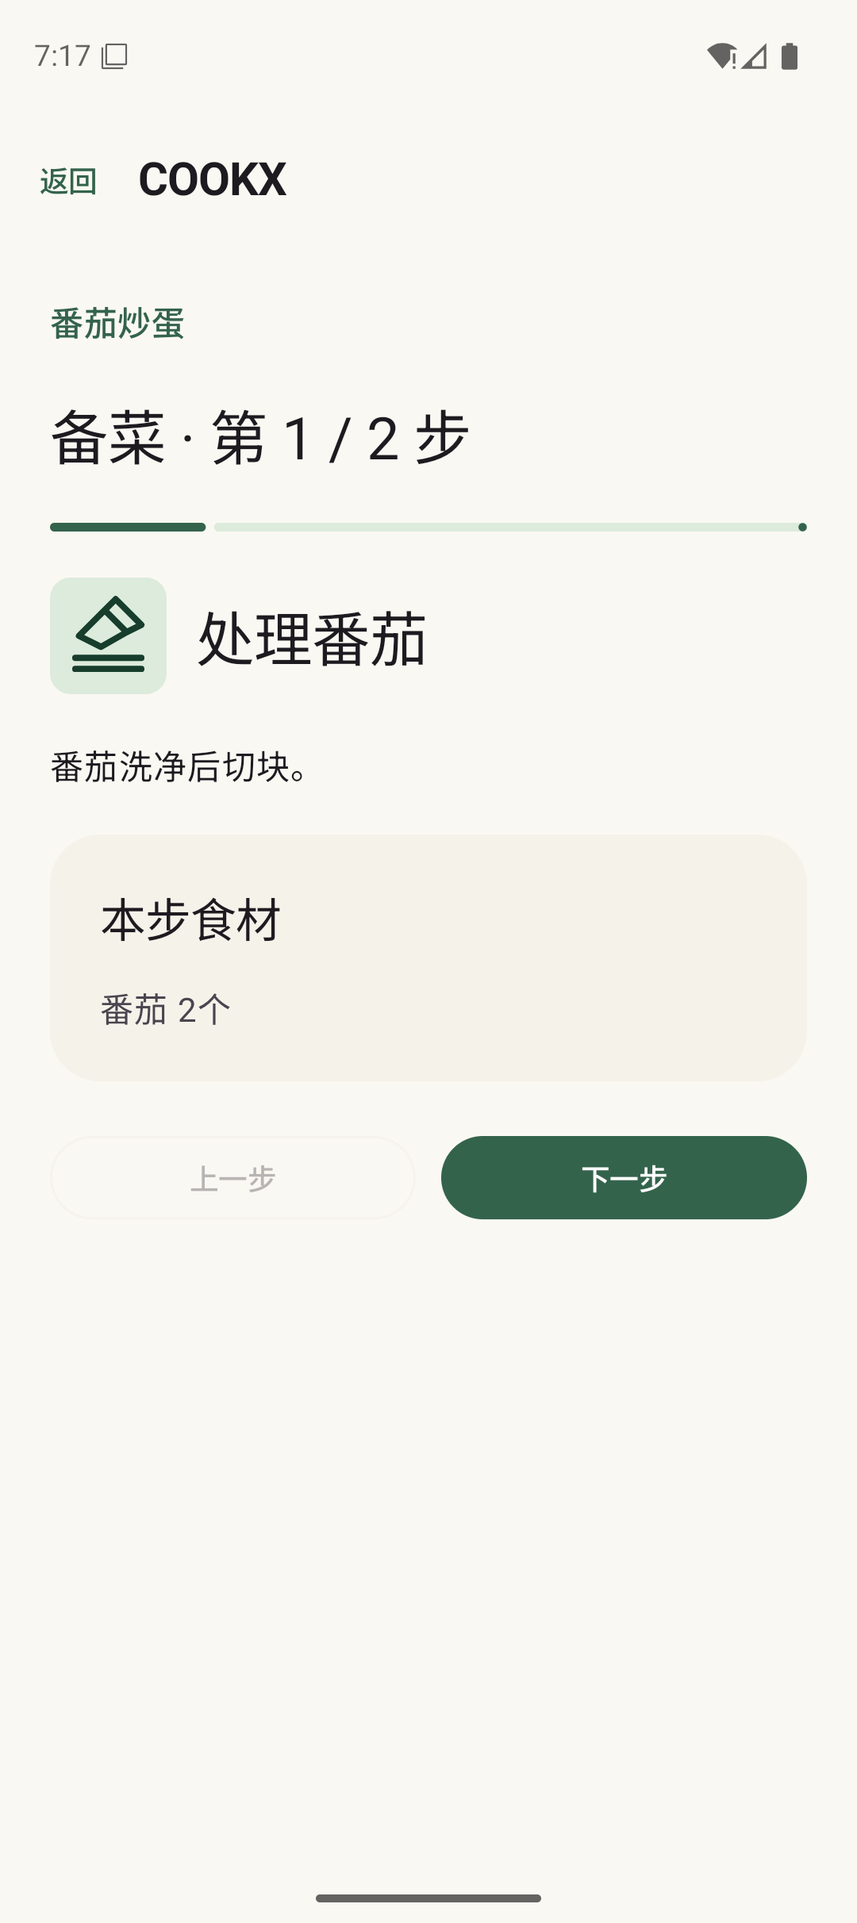
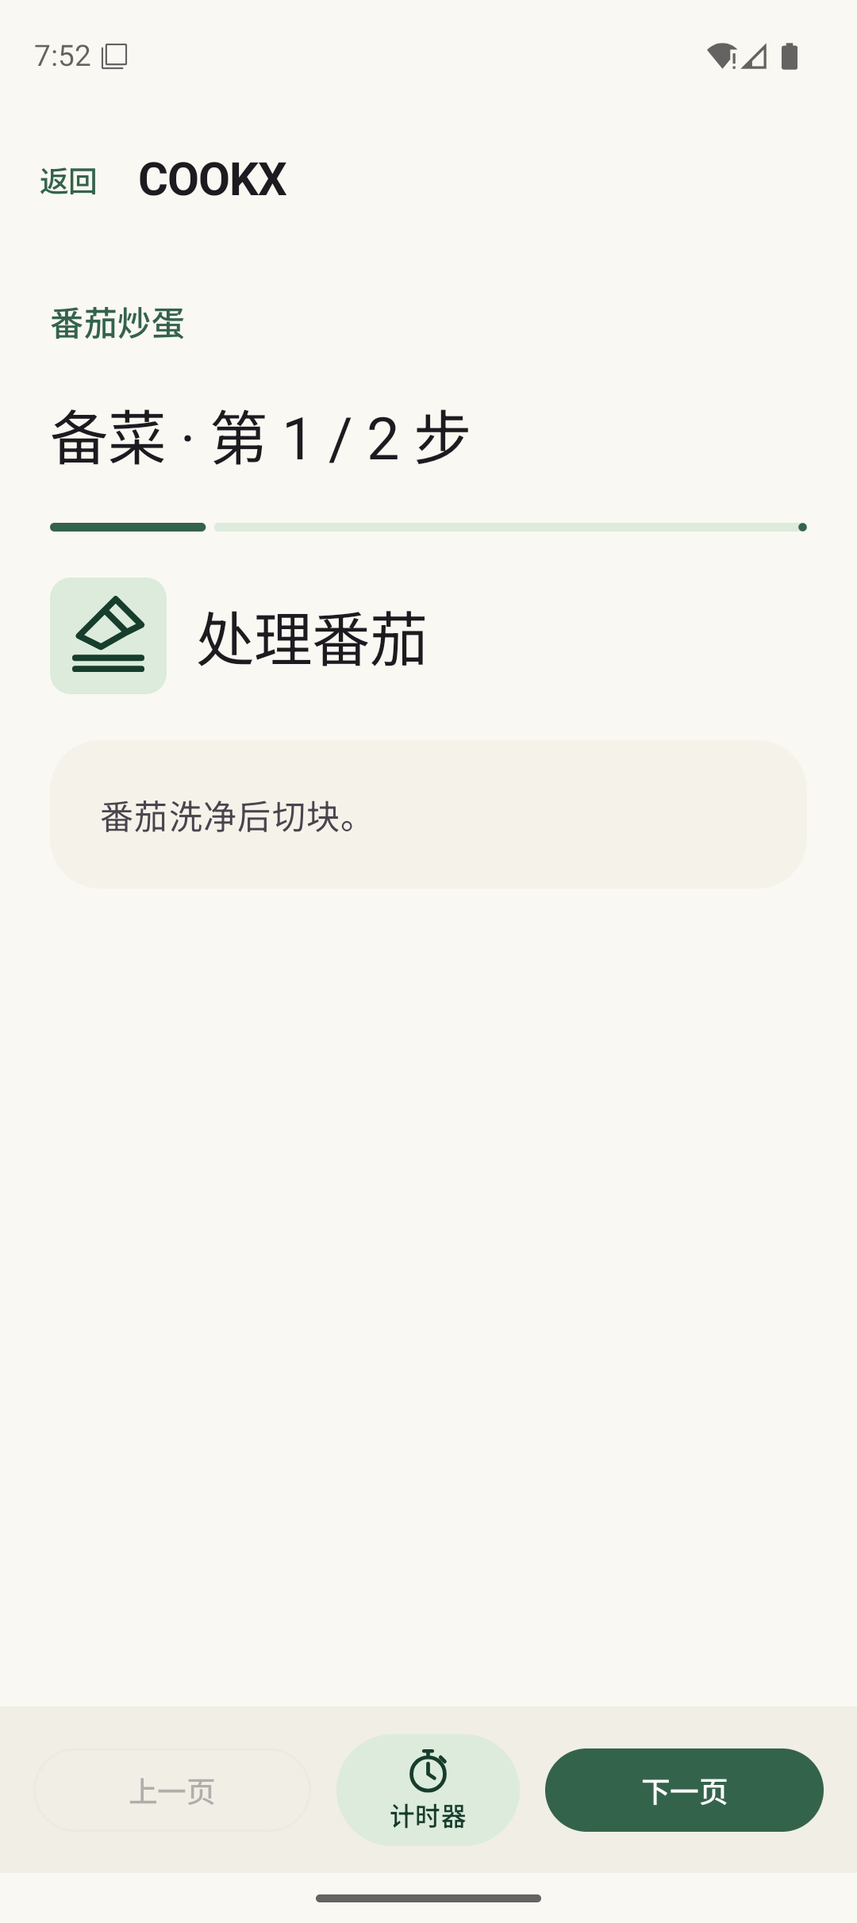
feat: add fixed cooking navigation and manual timer dialog

diff --git a/app/src/main/kotlin/com/cookx/app/ui/CookxApp.kt b/app/src/main/kotlin/com/cookx/app/ui/CookxApp.kt
@@ -12,6 +12,9 @@ import androidx.compose.runtime.*
 import androidx.compose.runtime.saveable.rememberSaveable
 import androidx.compose.ui.Alignment
 import androidx.compose.ui.Modifier
+import androidx.compose.ui.platform.testTag
+import androidx.compose.ui.res.painterResource
+import com.cookx.app.R
 import androidx.compose.ui.text.font.FontWeight
 import androidx.compose.ui.unit.dp
 import androidx.lifecycle.compose.collectAsStateWithLifecycle
@@ -260,6 +263,9 @@ import kotlinx.serialization.Serializable
     var deadline by rememberSaveable { mutableLongStateOf(0L) }
     var remaining by remember { mutableLongStateOf(0L) }
     var note by rememberSaveable { mutableStateOf("") }
+    var timerOpen by rememberSaveable { mutableStateOf(false) }
+    var timerDefault by rememberSaveable { mutableIntStateOf(60) }
+    var timerCondition by rememberSaveable { mutableStateOf<String?>(null) }
     LaunchedEffect(deadline) {
         while (deadline > 0L) {
             remaining = ((deadline - System.currentTimeMillis() + 999) / 1000).coerceAtLeast(0)
@@ -267,45 +273,55 @@ import kotlinx.serialization.Serializable
             delay(250)
         }
     }
-    Column(Modifier.fillMaxSize().verticalScroll(scroll).padding(24.dp), verticalArrangement = Arrangement.spacedBy(22.dp)) {
-        Text(recipe.name, style = MaterialTheme.typography.titleMedium, color = MaterialTheme.colorScheme.primary)
-        if (step < playback.size) {
-            val current = playback[step]
-            Text("${current.phase.label} · 第 ${current.phaseIndex} / ${current.phaseSize} 步", style = MaterialTheme.typography.headlineMedium)
-            LinearProgressIndicator(progress = { (step + 1f) / playback.size }, modifier = Modifier.fillMaxWidth())
-            Row(verticalAlignment = Alignment.CenterVertically) {
-                OperationBadge(current.step.operationType, 56.dp)
-                Text(current.step.title, Modifier.padding(start = 14.dp).weight(1f), style = MaterialTheme.typography.headlineMedium)
-            }
-            Surface(shape = RoundedCornerShape(24.dp), color = MaterialTheme.colorScheme.surfaceContainerLow) {
-                Text(current.step.description, modifier = Modifier.fillMaxWidth().padding(24.dp),
-                    style = MaterialTheme.typography.bodyLarge, color = MaterialTheme.colorScheme.onSurfaceVariant)
-            }
-            val parameters = current.step.parameters
-            val details = listOfNotNull(parameters.heat, parameters.temperature, parameters.cutSize)
-            if (details.isNotEmpty()) Text(details.joinToString(" · "), style = MaterialTheme.typography.bodyMedium)
-            current.step.timer?.let { timer ->
-                OutlinedButton(onClick = { deadline = System.currentTimeMillis() + timer.durationSeconds * 1000L }) {
-                    Text("计时 ${timer.durationSeconds} 秒")
+    Scaffold(contentWindowInsets = WindowInsets(0, 0, 0, 0), bottomBar = {
+        BottomAppBar(windowInsets = WindowInsets(0, 0, 0, 0), containerColor = MaterialTheme.colorScheme.surfaceContainer,
+            contentPadding = PaddingValues(horizontal = 16.dp, vertical = 8.dp)) {
+            OutlinedButton(onClick = { step-- }, enabled = step > 0, modifier = Modifier.weight(1f)) { Text("上一页") }
+            FilledTonalButton(onClick = {
+                val configured = playback.getOrNull(step)?.step?.timer
+                timerDefault = configured?.durationSeconds ?: 60
+                timerCondition = configured?.startCondition
+                timerOpen = true
+            }, modifier = Modifier.padding(horizontal = 12.dp).widthIn(min = 88.dp).testTag("openCookingTimer"),
+                contentPadding = PaddingValues(horizontal = 12.dp, vertical = 6.dp)) {
+                Column(horizontalAlignment = Alignment.CenterHorizontally) {
+                    Icon(painterResource(R.drawable.ic_timer), contentDescription = "计时器", modifier = Modifier.size(24.dp))
+                    Text(if (deadline > 0L) timerText(remaining) else "计时器", style = MaterialTheme.typography.labelMedium)
                 }
-                Text(timer.startCondition, style = MaterialTheme.typography.bodyMedium)
             }
-            if (deadline != 0L) {
+            Button(onClick = { step++ }, enabled = step < playback.size, modifier = Modifier.weight(1f)) { Text("下一页") }
+        }
+    }) { padding ->
+        Column(Modifier.fillMaxSize().padding(padding).consumeWindowInsets(padding).verticalScroll(scroll).padding(24.dp), verticalArrangement = Arrangement.spacedBy(22.dp)) {
+            Text(recipe.name, style = MaterialTheme.typography.titleMedium, color = MaterialTheme.colorScheme.primary)
+            if (step < playback.size) {
+                val current = playback[step]
+                Text("${current.phase.label} · 第 ${current.phaseIndex} / ${current.phaseSize} 步", style = MaterialTheme.typography.headlineMedium)
+                LinearProgressIndicator(progress = { (step + 1f) / playback.size }, modifier = Modifier.fillMaxWidth())
                 Row(verticalAlignment = Alignment.CenterVertically) {
-                    Text(if (remaining == 0L) "时间到" else "%02d:%02d".format(remaining / 60, remaining % 60), style = MaterialTheme.typography.titleLarge)
-                    TextButton(onClick = { deadline = 0L; remaining = 0L }) { Text("取消计时") }
+                    OperationBadge(current.step.operationType, 56.dp)
+                    Text(current.step.title, Modifier.padding(start = 14.dp).weight(1f), style = MaterialTheme.typography.headlineMedium)
                 }
+                Surface(shape = RoundedCornerShape(24.dp), color = MaterialTheme.colorScheme.surfaceContainerLow) {
+                    Text(current.step.description, modifier = Modifier.fillMaxWidth().padding(24.dp),
+                        style = MaterialTheme.typography.bodyLarge, color = MaterialTheme.colorScheme.onSurfaceVariant)
+                }
+                val parameters = current.step.parameters
+                val details = listOfNotNull(parameters.heat, parameters.temperature, parameters.cutSize)
+                if (details.isNotEmpty()) Text(details.joinToString(" · "), style = MaterialTheme.typography.bodyMedium)
+
+            } else {
+                Text("又完成了一道家的味道", style = MaterialTheme.typography.headlineLarge)
+                MealControls(cookingDate, Meal.valueOf(mealName), { cookingDate = it }, { mealName = it.name })
+                OutlinedTextField(note, { note = it }, label = { Text("本次制作心得（选填）") }, minLines = 4, modifier = Modifier.fillMaxWidth())
+                Button(onClick = { finish(note, MealSelection(cookingDate, Meal.valueOf(mealName))) }, enabled = !busy, modifier = Modifier.fillMaxWidth()) { Text("保存制作记录") }
             }
-            Row(Modifier.fillMaxWidth(), horizontalArrangement = Arrangement.spacedBy(12.dp)) {
-                OutlinedButton(onClick = { step-- }, enabled = step > 0, modifier = Modifier.weight(1f)) { Text("上一步") }
-                Button(onClick = { step++ }, modifier = Modifier.weight(1f)) { Text(if (step == playback.lastIndex) "完成步骤" else "下一步") }
-            }
-        } else {
-            Text("又完成了一道家的味道", style = MaterialTheme.typography.headlineLarge)
-            MealControls(cookingDate, Meal.valueOf(mealName), { cookingDate = it }, { mealName = it.name })
-            OutlinedTextField(note, { note = it }, label = { Text("本次制作心得（选填）") }, minLines = 4, modifier = Modifier.fillMaxWidth())
-            Button(onClick = { finish(note, MealSelection(cookingDate, Meal.valueOf(mealName))) }, enabled = !busy, modifier = Modifier.fillMaxWidth()) { Text("保存制作记录") }
-            TextButton(onClick = { step-- }) { Text("回看最后一步") }
         }
     }
+    if (timerOpen) CookingTimerDialog(timerDefault, timerCondition, deadline > 0L, remaining,
+        dismiss = { timerOpen = false }, stop = { deadline = 0L; remaining = 0L }, start = { seconds ->
+            remaining = seconds.toLong()
+            deadline = System.currentTimeMillis() + seconds * 1000L
+            timerOpen = false
+        })
 }

diff --git a/app/src/androidTest/kotlin/com/cookx/app/StructuredPlaybackTest.kt b/app/src/androidTest/kotlin/com/cookx/app/StructuredPlaybackTest.kt
@@ -31,13 +31,45 @@ class StructuredPlaybackTest {
         compose.onNodeWithText("本步食材").assertDoesNotExist()
         compose.onNodeWithText("土豆 1个").assertDoesNotExist()
         compose.onNodeWithText("清洗土豆。").assertIsDisplayed()
-        compose.onNodeWithText("计时 120 秒").performScrollTo().performClick()
-        compose.onNodeWithText("下一步").performScrollTo().performClick()
+        compose.onNodeWithTag("openCookingTimer").performClick()
+        compose.onNodeWithTag("timerDisplay").assertTextEquals("02:00")
+        compose.onNodeWithText("开始计时").performClick()
+        compose.onNodeWithText("下一页").assertIsDisplayed().performClick()
         compose.onNodeWithText("烹饪 · 第 1 / 1 步").assertExists()
         restore.emulateSavedInstanceStateRestore()
-        compose.onNodeWithText("取消计时").assertExists()
+        compose.onNodeWithTag("openCookingTimer").performClick()
+        compose.onNodeWithText("停止计时").assertExists()
         compose.onNodeWithTag("cookingDate").assertDoesNotExist()
-        compose.onNodeWithText("取消计时").performScrollTo().performClick()
-        compose.onNodeWithText("取消计时").assertDoesNotExist()
+        compose.onNodeWithText("停止计时").performClick()
+        compose.onNodeWithTag("timerDisplay").assertTextEquals("01:00")
+        compose.onNodeWithText("关闭").performClick()
+    }
+    @Test fun defaultTimerOpensIdleAndFooterStaysVisibleForLongInstructions() {
+        val original = exampleRecipes("f").first()
+        val recipe = original.copy(phases = listOf(RecipePhase(PhaseType.PREP, listOf(
+            original.phases.first().steps.first().copy(description = "清洗番茄后切块。\n".repeat(100))
+        )), RecipePhase(PhaseType.COOK)))
+        val restore = StateRestorationTester(compose)
+        restore.setContent { COOKXTheme { Box(Modifier.safeDrawingPadding()) {
+            CookingScreen(recipe, Cook(recipe.id), false) { _, _ -> }
+        } } }
+        compose.onNodeWithText("上一页").assertIsDisplayed().assertIsNotEnabled()
+        compose.onNodeWithText("下一页").assertIsDisplayed()
+        compose.onNodeWithTag("openCookingTimer").assertIsDisplayed().performClick()
+        compose.onNodeWithTag("timerDisplay").assertTextEquals("01:00")
+        compose.onNodeWithText("停止计时").assertDoesNotExist()
+        restore.emulateSavedInstanceStateRestore()
+        compose.onNodeWithTag("timerDisplay").assertTextEquals("01:00")
+        compose.onNodeWithText("开始计时").assertIsDisplayed()
+        compose.onNodeWithTag("timerMinutes").performTextReplacement("0")
+        compose.onNodeWithTag("timerSeconds").performTextReplacement("45")
+        compose.onNodeWithText("开始计时").assertIsDisplayed().performClick()
+        compose.onNodeWithTag("openCookingTimer").performClick()
+        compose.onNodeWithText("停止计时").assertIsDisplayed()
+        compose.onNodeWithText("关闭").performClick()
+        compose.onNodeWithText("下一页").assertIsDisplayed().performClick()
+        compose.onNodeWithText("下一页").assertIsNotEnabled()
+        compose.onNodeWithText("上一页").performClick()
+        compose.onNodeWithTag("openCookingTimer").assertIsDisplayed()
     }
 }

diff --git a/app/src/main/kotlin/com/cookx/app/ui/CookingTimerDialog.kt b/app/src/main/kotlin/com/cookx/app/ui/CookingTimerDialog.kt
@@ -1,0 +1,50 @@
+package com.cookx.app.ui
+
+import androidx.compose.foundation.layout.*
+import androidx.compose.foundation.rememberScrollState
+import androidx.compose.foundation.text.KeyboardOptions
+import androidx.compose.foundation.verticalScroll
+import androidx.compose.material3.*
+import androidx.compose.runtime.*
+import androidx.compose.runtime.saveable.rememberSaveable
+import androidx.compose.ui.Modifier
+import androidx.compose.ui.platform.testTag
+import androidx.compose.ui.text.input.KeyboardType
+import androidx.compose.ui.unit.dp
+import java.util.Locale
+
+internal fun timerText(seconds: Long) = String.format(Locale.ROOT, "%02d:%02d", seconds / 60, seconds % 60)
+
+@Composable internal fun CookingTimerDialog(defaultSeconds: Int, startCondition: String?, running: Boolean, remaining: Long,
+    dismiss: () -> Unit, stop: () -> Unit, start: (Int) -> Unit) {
+    var minutes by rememberSaveable { mutableStateOf((defaultSeconds / 60).toString()) }
+    var seconds by rememberSaveable { mutableStateOf((defaultSeconds % 60).toString()) }
+    var error by rememberSaveable { mutableStateOf<String?>(null) }
+    val duration = minutes.toLongOrNull()?.let { min -> seconds.toLongOrNull()?.let { sec ->
+        (min * 60 + sec).takeIf { min in 0..35_791_393 && sec in 0..59 && it in 1..Int.MAX_VALUE }
+    } }
+    AlertDialog(onDismissRequest = dismiss, containerColor = MaterialTheme.colorScheme.surfaceContainerLow, title = { Text("计时器") }, text = {
+        Column(Modifier.verticalScroll(rememberScrollState()), verticalArrangement = Arrangement.spacedBy(16.dp)) {
+            Text(timerText(if (running) remaining else duration ?: defaultSeconds.toLong()),
+                style = MaterialTheme.typography.displayMedium, modifier = Modifier.testTag("timerDisplay"))
+            if (!running) {
+                Row(horizontalArrangement = Arrangement.spacedBy(12.dp)) {
+                    OutlinedTextField(minutes, { minutes = it; error = null }, label = { Text("分") },
+                        keyboardOptions = KeyboardOptions(keyboardType = KeyboardType.Number), singleLine = true,
+                        modifier = Modifier.weight(1f).testTag("timerMinutes"))
+                    OutlinedTextField(seconds, { seconds = it; error = null }, label = { Text("秒") },
+                        keyboardOptions = KeyboardOptions(keyboardType = KeyboardType.Number), singleLine = true,
+                        modifier = Modifier.weight(1f).testTag("timerSeconds"))
+                }
+                startCondition?.let { Text(it, style = MaterialTheme.typography.bodyMedium) }
+            }
+            error?.let { Text(it, color = MaterialTheme.colorScheme.error) }
+        }
+    }, confirmButton = {
+        if (running) TextButton(onClick = stop) { Text("停止计时") }
+        else TextButton(onClick = {
+            if (duration == null) error = "请填写有效时长，秒数为 0–59"
+            else start(duration.toInt())
+        }) { Text("开始计时") }
+    }, dismissButton = { TextButton(onClick = dismiss) { Text("关闭") } })
+}

diff --git a/app/src/androidTest/kotlin/com/cookx/app/TagsAndMealsUiTest.kt b/app/src/androidTest/kotlin/com/cookx/app/TagsAndMealsUiTest.kt
@@ -60,12 +60,12 @@ class TagsAndMealsUiTest {
         }
         compose.onNodeWithTag("cookingDate").assertDoesNotExist()
         compose.onNodeWithTag("meal:DINNER").assertDoesNotExist()
-        compose.onNodeWithText("下一步").performScrollTo().performClick()
+        compose.onNodeWithText("下一页").assertIsDisplayed().performClick()
         restore.emulateSavedInstanceStateRestore()
         compose.onNodeWithText("备菜 · 第 2 / 2 步").assertExists()
         compose.onNodeWithTag("cookingDate").assertDoesNotExist()
-        repeat(3) { compose.onNodeWithText("下一步").performScrollTo().performClick() }
-        compose.onNodeWithText("完成步骤").performScrollTo().performClick()
+        repeat(3) { compose.onNodeWithText("下一页").assertIsDisplayed().performClick() }
+        compose.onNodeWithText("下一页").assertIsDisplayed().performClick()
         compose.onNodeWithText("制作日期：2026-11-16").assertExists()
         compose.onNodeWithTag("meal:DINNER").assertIsSelected()
         compose.onNodeWithTag("meal:BREAKFAST").performScrollTo().performClick()
@@ -75,10 +75,10 @@ class TagsAndMealsUiTest {
         restore.emulateSavedInstanceStateRestore()
         compose.onNodeWithText("制作日期：2026-11-17").assertExists()
         compose.onNodeWithTag("meal:BREAKFAST").assertIsSelected()
-        compose.onNodeWithText("回看最后一步").performScrollTo().performClick()
+        compose.onNodeWithText("上一页").assertIsDisplayed().performClick()
         compose.onNodeWithTag("cookingDate").assertDoesNotExist()
         compose.onNodeWithTag("meal:BREAKFAST").assertDoesNotExist()
-        compose.onNodeWithText("完成步骤").performScrollTo().performClick()
+        compose.onNodeWithText("下一页").assertIsDisplayed().performClick()
         compose.onNodeWithText("制作日期：2026-11-17").assertExists()
         compose.onNodeWithText("保存制作记录").performScrollTo().performClick()
         assertEquals(MealSelection("2026-11-17", Meal.BREAKFAST), saved)

diff --git a/app/src/androidTest/kotlin/com/cookx/app/KitchenJourneyTest.kt b/app/src/androidTest/kotlin/com/cookx/app/KitchenJourneyTest.kt
@@ -33,13 +33,13 @@ class KitchenJourneyTest {
             compose.onNodeWithText("本步食材").assertDoesNotExist()
             compose.onNodeWithText("番茄洗净后切块。").assertIsDisplayed()
             compose.onNodeWithTag("cookingDate").assertDoesNotExist()
-            compose.onNodeWithText("下一步").performScrollTo().performClick()
+            compose.onNodeWithText("下一页").assertIsDisplayed().performClick()
             scenario.recreate()
             compose.onNodeWithText("备菜 · 第 2 / 2 步").assertExists()
-            compose.onNodeWithText("下一步").performScrollTo().performClick()
+            compose.onNodeWithText("下一页").assertIsDisplayed().performClick()
             compose.onNodeWithText("烹饪 · 第 1 / 3 步").assertExists()
-            repeat(2) { compose.onNodeWithText("下一步").performScrollTo().performClick() }
-            compose.onNodeWithText("完成步骤").performScrollTo().performClick()
+            repeat(2) { compose.onNodeWithText("下一页").assertIsDisplayed().performClick() }
+            compose.onNodeWithText("下一页").assertIsDisplayed().performClick()
             compose.onNodeWithTag("cookingDate").assertExists()
             compose.onNodeWithText("本次制作心得（选填）").performTextInput("下次少放盐")
             compose.onNodeWithText("保存制作记录").performScrollTo().performClick()

diff --git a/docs/recipe-model.md b/docs/recipe-model.md
@@ -57,7 +57,7 @@ KitchenState（schemaVersion = 3）
 
 套用后，将按条件筛选的动作与具体用料分行生成做法，和参数、计时、绑定结果一起复制为 `RecipeStep`，保留 `templateRef`。模板参数保存在 `templateRef.values`，用于恢复编辑；食材列表绑定键为 `参数ID:索引`。播放只读步骤内容，不根据模板 ID 实时重建；以后模板改变不会自动改写旧菜谱。
 
-当前模板目录只读，读取六个已确认模板：肉丝腌制、切滚刀块、切均匀块、肉类焯水、西兰花焯水、葱姜蒜爆香。肉类焯水只采用冷水下锅；西兰花过凉可选；香料可一起下或排序。未填写时长不生成计时器；填写焯水时长时必须提供起点。模板中的多个动作仍为同一制作页。模板维护权限、家庭模板及升级策略仍留待产品讨论。
+当前模板目录只读，读取六个已确认模板：肉丝腌制、切滚刀块、切均匀块、肉类焯水、西兰花焯水、葱姜蒜爆香。肉类焯水只采用冷水下锅；西兰花过凉可选；香料可一起下或排序。未填写时长不生成步骤的计时配置；填写焯水时长时必须提供起点。模板中的多个动作仍为同一制作页。模板维护权限、家庭模板及升级策略仍留待产品讨论。
 
 修改标准步骤的核心做法时，可转为自定义步骤；不继续声称是未经修改的标准模板。阶段、排序、删除和食材关联在编辑器中显式维护。
 
@@ -73,7 +73,7 @@ KitchenState（schemaVersion = 3）
 
 保存前校验阶段顺序、唯一 ID、食材引用、模板绑定、正数数量、有效计时、家庭归属和记录归属。校验失败不会替换上一份有效数据。
 
-日期与餐次属于 `CookingRecord`；计时截止时间、当前步骤与完成页输入属于当次制作会话，不写回菜谱或模板。日期餐次仍在开始时预选、只在完成页显示设置。
+日期与餐次属于 `CookingRecord`；计时截止时间、当前步骤与完成页输入属于当次制作会话，不写回菜谱或模板。日期餐次仍在开始时预选、只在完成页显示设置。制作页固定底栏始终提供计时器入口；打开时预填步骤配置的时长，未配置则为 1 分钟，只有点击开始才启动，临时调整不写回步骤字段。
 
 仓储使用 `cookx_kitchen_v3`，固定 `schemaVersion = 3`，不读取旧 v1/v2 存储。默认状态无家庭、菜谱、库存或制作记录，示例需要用户主动添加。
 

diff --git a/README.md b/README.md
@@ -10,7 +10,7 @@
 - 食材独立记录名称和用量，步骤按备菜、烹饪两个阶段保存。
 - 录入时逐项添加食材、步骤，选择操作类型、关联本步食材和用量；可配置火候、温度、切制尺寸、完成标准与计时。
 - 支持自定义步骤和标准模板步骤；读取 JSON 中六个已确认模板。支持食材用量、可选动作、下料顺序及按需计时，具体做法保存为菜谱内副本。
-- 制作模式按两阶段顺序播放，显示操作图标、本步食材和参数；配置了计时的步骤可手动启动，切换步骤不重置正在运行的计时。
+- 制作模式按两阶段顺序播放，显示操作图标、本步食材和参数；固定底栏提供上一页、计时器、下一页。计时器打开时预填步骤时长，未配置则为 1 分钟，点击开始才倒计时；切换步骤不重置运行中的计时。
 - 只在完成页显示日期与餐次设置；开始制作时自动预选，完成后保存日期、餐次与心得。
 - 读取 JSON 中 33 个预设标签，支持自定义多标签，以及家庭常用标签选择和排序；首页隐藏没有菜谱的标签。
 - 点击“准备食材”打开采购便签，按食材 ID 保留进度；可与囤囤鼠的已有食材登记联动。勾选不改变库存或花费。
@@ -78,7 +78,7 @@ source scripts/android-env.sh
 
 2026-11-17 已验证：Debug／Release 构建与 Lint、18 项单元测试、15 项设备用例。标签长列表测试改用滚动到目标节点后，标签组 3 项复测通过。设备全流程测试会清空调试 App 的 v3 家庭数据并使用测试家庭，请使用专用模拟器。Release 构建尚未配置正式签名。
 
-当前页面：[首页](docs/screenshots/recipes.png)、[结构化详情](docs/screenshots/recipe-detail.png)、[两阶段制作](docs/screenshots/cooking-structured.png)、[清空后首次启动](docs/screenshots/clean-start.png)。
+当前页面：[首页](docs/screenshots/recipes.png)、[结构化详情](docs/screenshots/recipe-detail.png)、[两阶段制作](docs/screenshots/cooking-structured.png)、[计时器](docs/screenshots/cooking-timer.png)、[清空后首次启动](docs/screenshots/clean-start.png)。
 
 ## 官方 Android skills
 
